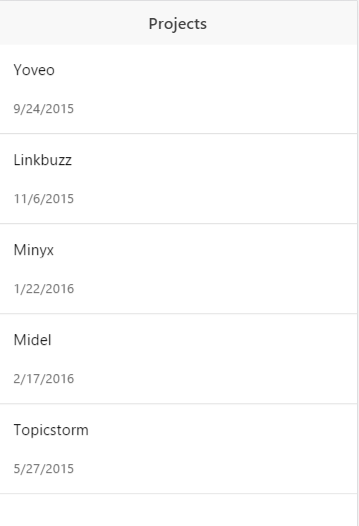
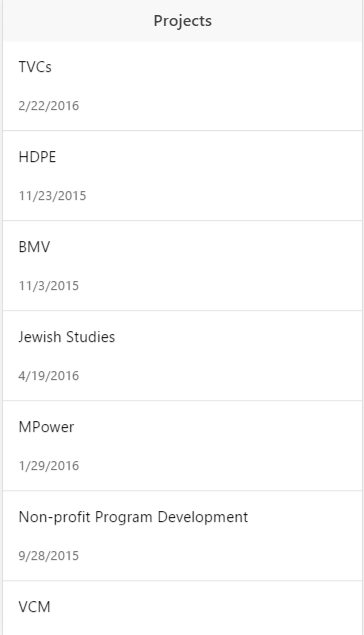
added mock-data.json file with mockaroo.com generated data re-did the screenshots for the new mock data updated text to remove json file creation and instead it now has them download for this site.

diff --git a/_workshops/ionic/05-creating-the-master-view.md b/_workshops/ionic/05-creating-the-master-view.md
@@ -97,31 +97,7 @@ In this section, you will be creating your first service to pull data from a rem
 
 **Steps**
 
-1. In the www directory, create a new file called projects.json
-1. Add the following information to the file:
-
-        [{
-          "name": "Yoveo",
-          "created_on": "9/24/2015",
-          "created_by": "Ronald Matthews"
-        }, {
-          "name": "Linkbuzz",
-          "created_on": "11/6/2015",
-          "created_by": "Brenda Jordan"
-        }, {
-          "name": "Minyx",
-          "created_on": "1/22/2016",
-          "created_by": "Ryan Wilson"
-        }, {
-          "name": "Midel",
-          "created_on": "2/17/2016",
-          "created_by": "Anna Fisher"
-        }, {
-          "name": "Topicstorm",
-          "created_on": "5/27/2015",
-          "created_by": "Chris Johnston"
-        }]
-
+1. Download the [mock data file](../files/mock-data.json) and store it in the www directory
 1. In the www/js directory, create a new directory called services
 1. In the www/js/services directory, create a new javascript file called projects.service.js
 1. Using the angular snippet ng1factory to generate a new service snippet.
@@ -135,7 +111,7 @@ In this section, you will be creating your first service to pull data from a rem
 1. Change the getProjects function to look like the following.  This will get the data from the projects.json file.
 
         function getProjects() {
-            return $http.get("/projects.json")
+            return $http.get("/mock-data.json")
                 .then(function (result) {
                     return result.data;
                 });
@@ -210,7 +186,7 @@ Now we are ready to show the project data on our project view.  We will first ju
 
 So far you have just bound the json output to the UI.  Useful for debugging but not what you want a user to see.  In this section, we will create a nice looking contact list that shows the contact's first name, email address and a picture of them.   The UI should look like the following when done, 
 
-![project list with json included]({{"projects-ion-list-with-json.png" | prepend: imagedir }})
+![project list with json included]({{"projects-ion-list-without-json.png" | prepend: imagedir }})
 
 **Steps**
 
@@ -234,15 +210,27 @@ So far you have just bound the json output to the UI.  Useful for debugging but 
 
 To see the full docs on the &lt;ion-list&gt; documentation, at the command prompt, type ionic docs ion-list or go to [http://ionicframework.com/docs/api/directive/ionList/](http://ionicframework.com/docs/api/directive/ionList/)
 
+## Ordering Data
+
+If you look at the ion-list right now it is difficult to find a specific project since the list is ordered by the way it is stored in the mock-data.json json array.  Instead we want to order the ion-list by the project name.
+
+To order the ion-list by the project name add the orderBy statement to the ng-repeat
+
+    <ion-item ng-repeat="project in vm.projects | orderBy: 'name'">
+
+Now the list should be in alphabetical order
+
+![Projects Order By Name]({{ "projects-ion-list-ordered.png" | prepend: imagedir }})
+
 ## Minification Safe Code
 
-For a web site that you are going to be deploying to a web server vs running locally, it is best practice to minify the code.  However, with creating application that are intended to run locally on a device, there is mixed opinions on if you need to worry about being able to safely minify your code.
+Since this lab is the first bit of code that we are writing I want to briefly discuss minification of the code.  For a web site that you are going to be deploying to a web server vs running locally, it is best practice to minify the code.  However, when  creating an application that is intended to run locally on a device like we are doing, there is mixed opinions on if you need or should minify your code.
 
-All of the code that we will be creating as part of this workshop will be minification safe, however, some of the code that is part of the ionic templates is not minification safe out of the box.  For the blank template the main issue is the app.js run block.  You could easily follow the same pattern as the app.config.js file and rewrite the run function.
+To save yourself work later on it is important to decide early on if you are going to minify the code when you release your ionic application.  All of the code that we will be creating as part of this workshop will be minification safe, however, some of the code that is part of the ionic templates is not minification safe out of the box.  For the blank template the main issue is the app.js run block.  You could easily follow the same pattern as the app.config.js file and rewrite the run function.
 
-Why do we even need to worry about this?  The reason is that Angular uses dependency inject and when the code is minified, values such as $http get changed to variable names like "a".  When the variable becomes "a" then Angular does not know anything about "a" so it just throw an injector error.  By making the code minification safe $http is left as $http so that Angular knows to pass into the function.
+The reason that we need to care about minification safe code is that Angular uses dependency inject and when the code is minified, values such as $http get changed to variable names like "a".  When the variable becomes "a" then Angular have no clue what the heck "a" is so it throws an injector error.  By making the code minification safe, $http is left as $http so that Angular knows what it is.
 
-Out of the box Ionic does not provide any gulp tasks to minify css, javascript or html code.  It is not difficult to write these task or find one that suits you needs if you deem this a critical requirement.
+Out of the box Ionic does not provide any gulp tasks to minify css, javascript or html code.  It is not difficult to write these task or find one that suits you needs if you deem this a critical requirement.  Writing these task is outside the scope of this workshop.
 
 **example of NOT minification safe code**
 
